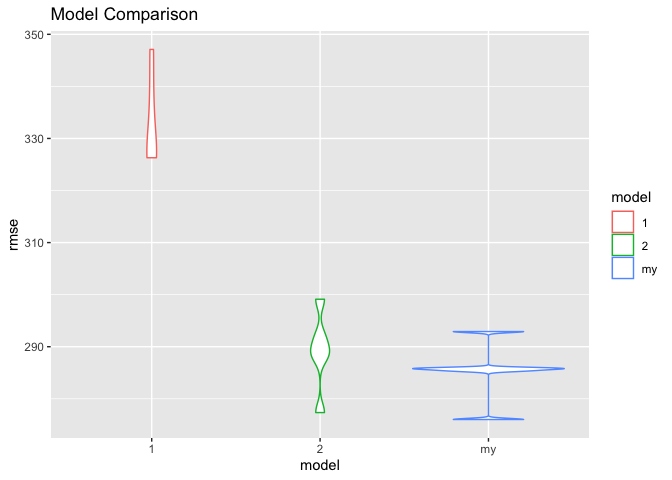
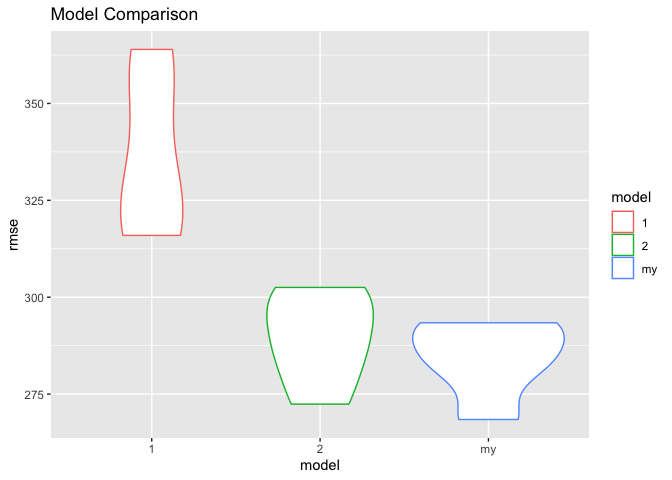
plot change

diff --git a/p8105_hw6_xl3048.md b/p8105_hw6_xl3048.md
@@ -183,11 +183,11 @@ cv_df %>% select(starts_with("rmse_"))%>%knitr::kable(digits = 3)
 
 | rmse\_1 | rmse\_2 | rmse\_my |
 | ------: | ------: | -------: |
-| 326.296 | 291.884 |  285.841 |
-| 337.121 | 289.208 |  285.386 |
-| 326.814 | 288.189 |  285.822 |
-| 347.101 | 299.122 |  292.915 |
-| 327.786 | 277.353 |  276.020 |
+| 328.835 | 290.073 |  285.504 |
+| 363.944 | 302.521 |  293.401 |
+| 355.695 | 298.945 |  292.957 |
+| 319.559 | 283.429 |  281.524 |
+| 315.952 | 272.413 |  268.439 |
 
 ``` r
 cv_df %>% 
@@ -318,7 +318,7 @@ bootstrap_results %>%
 
 | term        | boot\_se |
 | :---------- | -------: |
-| (Intercept) |    0.253 |
+| (Intercept) |    0.252 |
 | tmin        |    0.017 |
 
 ``` r
@@ -348,11 +348,12 @@ log_val %>% ggplot(aes(x=log_value))+
   labs(title = "Distribution of log(b^1*b^0)", x= "log(b^1*b^0)")
 ```
 
-![](p8105_hw6_xl3048_files/figure-gfm/log%20plot-1.png)<!-- -->
-
-The distribution of 5000 r-squared (mean slightly above 0.91) and
-log(b^1\*b^0) (mean slightly above 2.00) values from 5000 bootstrap
-samples is fairly normal.
+![](p8105_hw6_xl3048_files/figure-gfm/log%20plot-1.png)<!-- --> The
+shape of two plots are approximately bell-shaped. The mean for R-squared
+is slightly greater than 0.91, implies to majority of models across
+bootstrap samples has a good fit. The mean for log(b^1 \* b^0) is
+slightly below 2.025. The peak at the mean makes it slightly departures
+from a normal distribution.
 
 ``` r
 ci <- data.frame(
@@ -368,5 +369,5 @@ ci %>%  knitr::kable(digits = 3)
 
 |           | r-squared | log(b^1 \* b^0) |
 | :-------- | --------: | --------------: |
-| ci\_lower |     0.894 |           1.963 |
+| ci\_lower |     0.894 |           1.965 |
 | ci\_upper |     0.927 |           2.059 |
